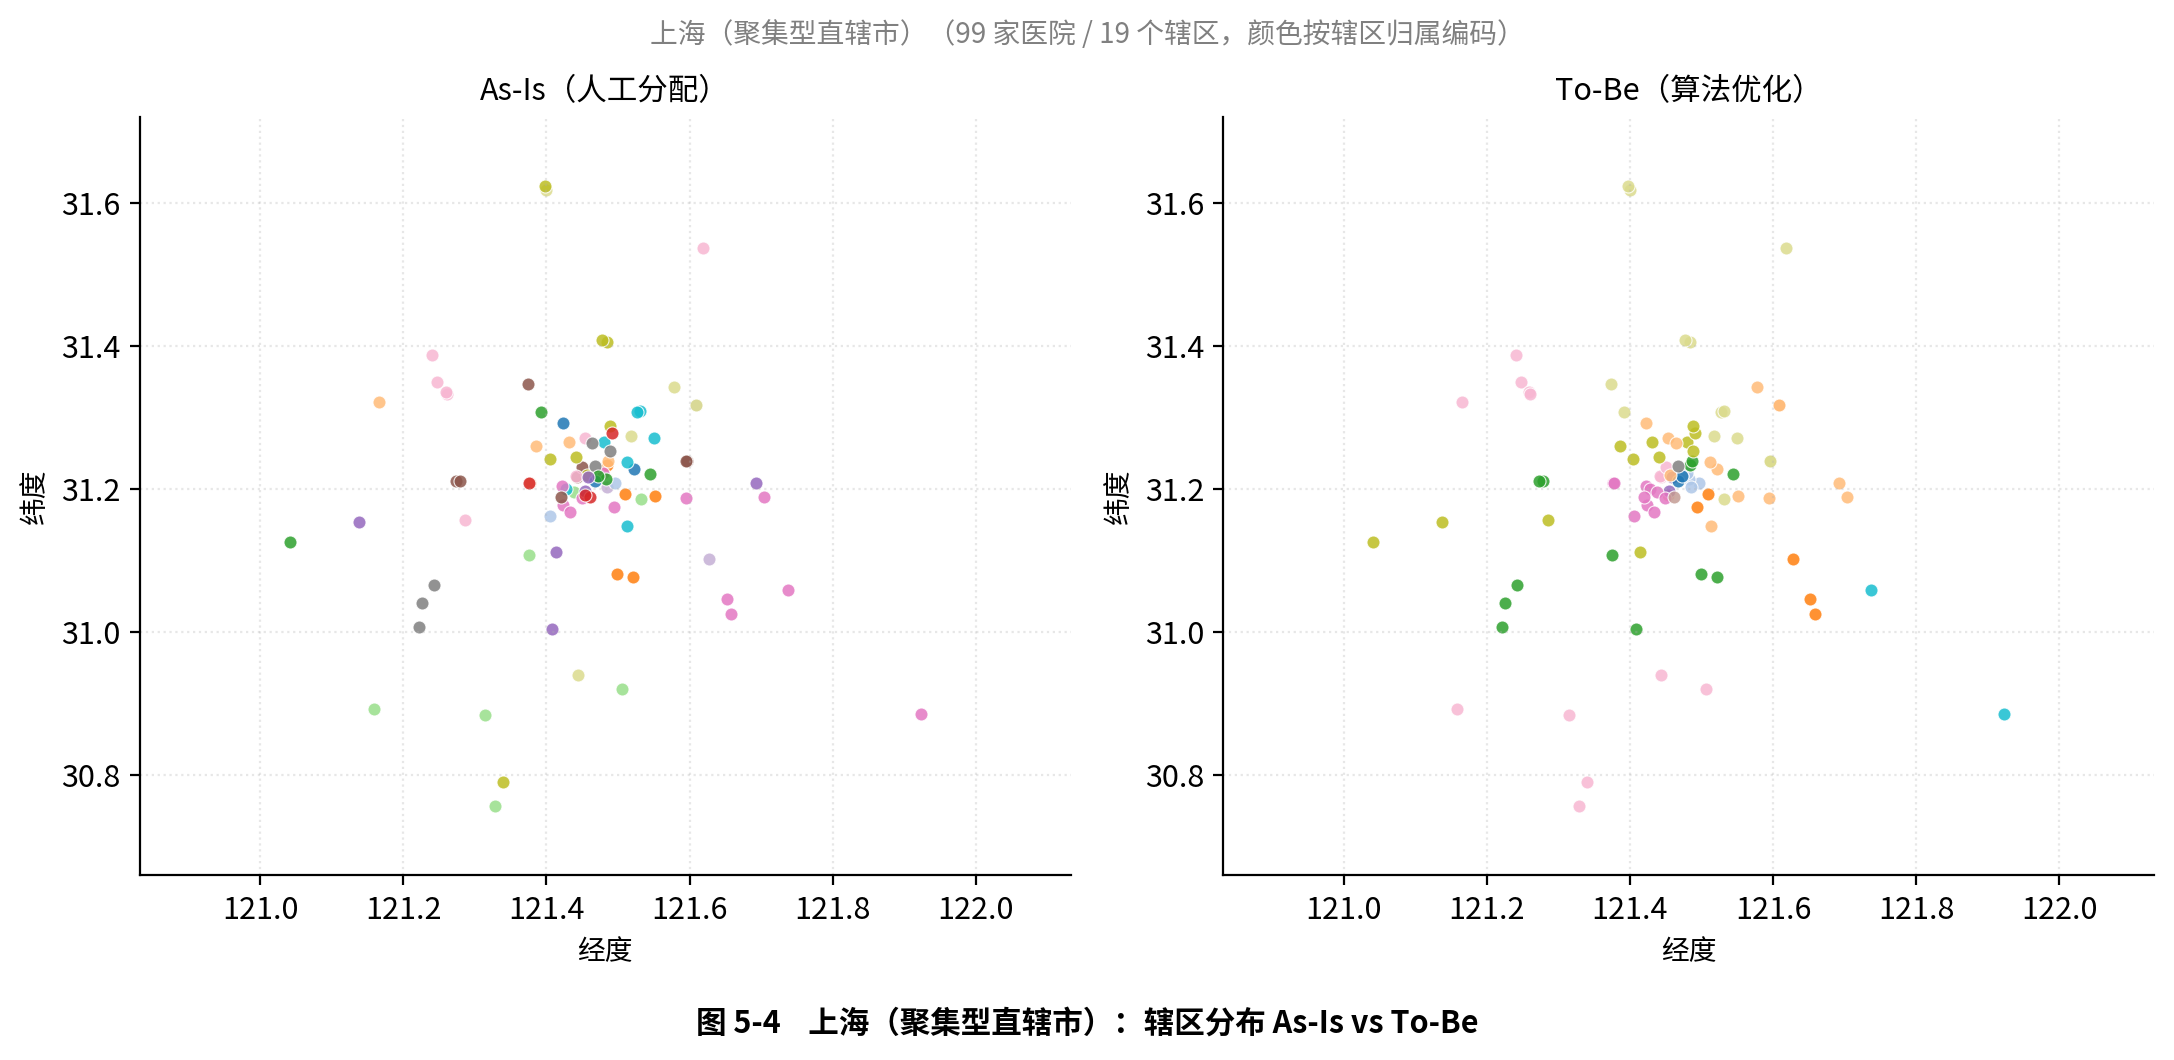
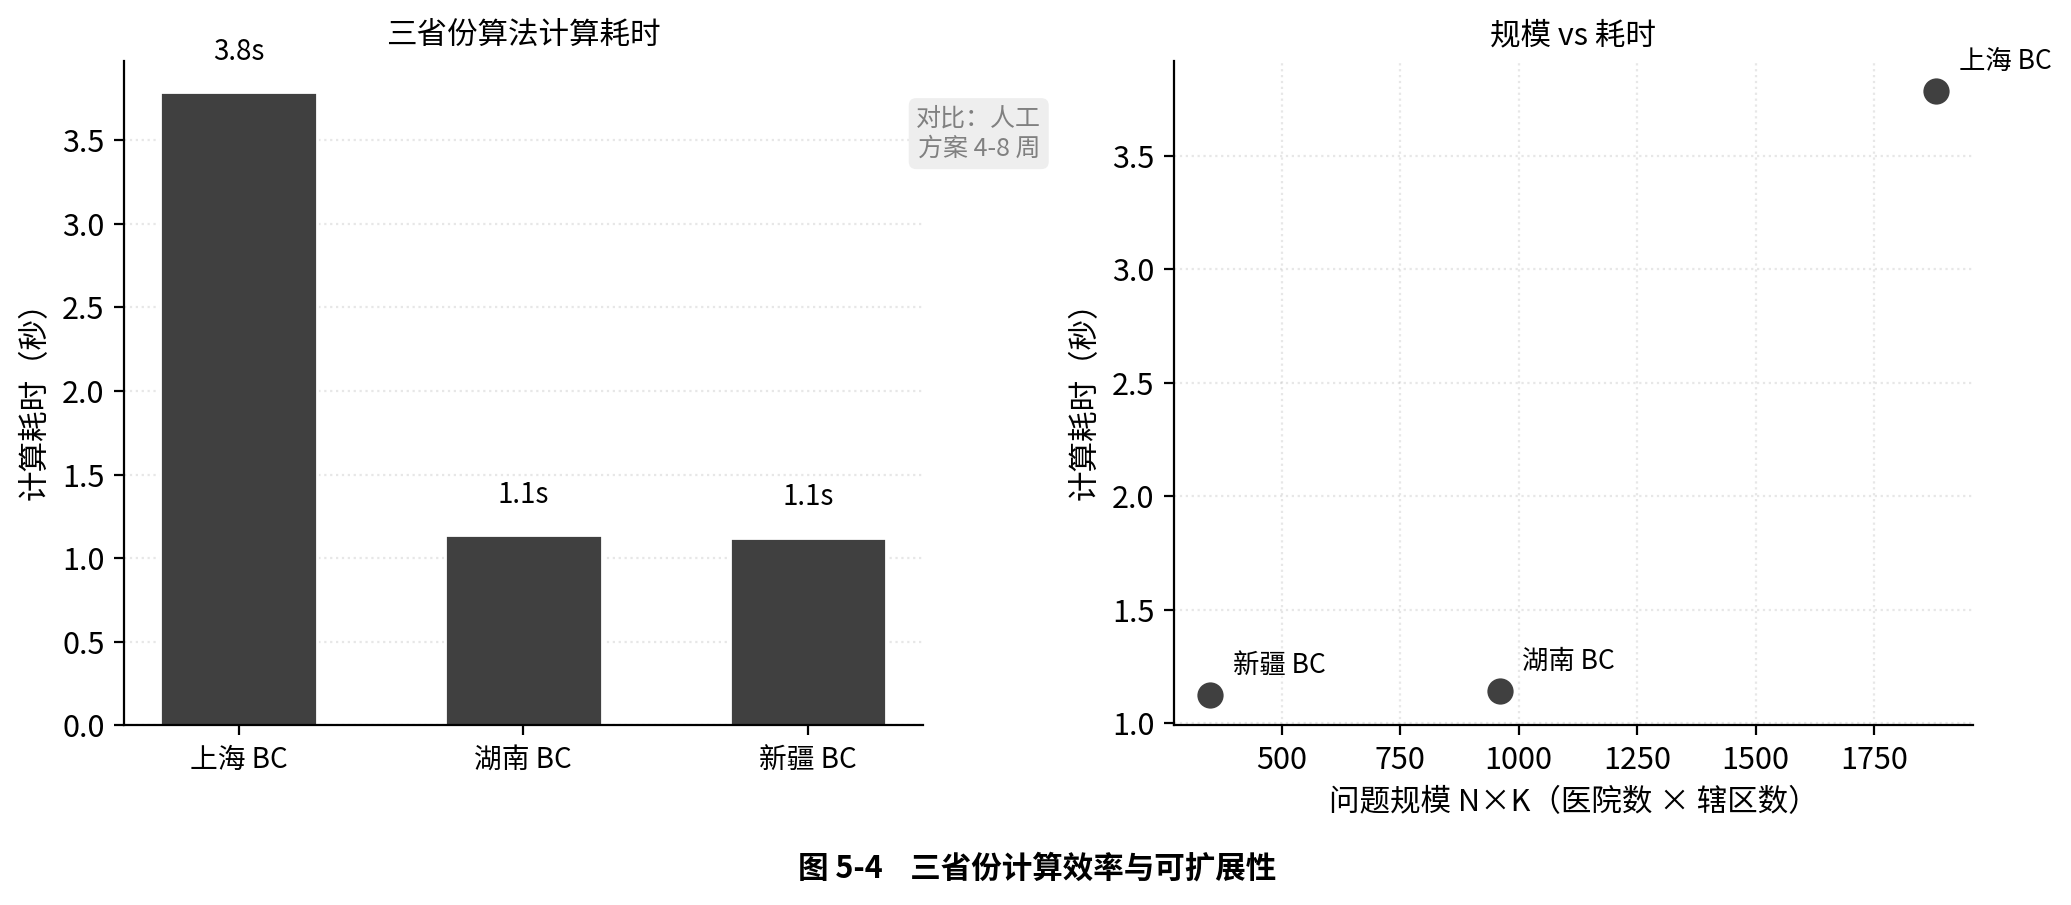
删除图 5-4/5-5 上海与新疆辖区分布地图，5.3 节改为纯文字+表格论证
原图 5-4（上海地图）/ 图 5-5（新疆地图）即便加上凸包包络也只能展示"轮廓压缩"这种很弱的几何信号，承担不起"展示算法地理优化"的论证任务。地理优化的核心证据已经由：
- 5.3.1/5.3.3 正文具体数字（半径 km、CV %）
- 表 5-3 三省份横向对比
- 图 5-1/5-2 湖南主样本均衡度与紧凑性
完整覆盖。删除装饰性图反而让正文论证更密。

具体改动：
- 5.3.1 删图引用句 + 删 fig5-4.png 嵌入 + 删图后段地图描述前半句
- 5.3.3 删图引用句 + 删 fig5-5.png 嵌入 + 删图后段地图描述前半句
- 5.4.1 原图 5-6 重编号为图 5-4（三省份计算时间）
- fig5.py 删 _province_map/fig_5_4/fig_5_5 三个 map 函数 + scipy 依赖
- fig_5_6 函数重命名 fig_5_4，输出文件 fig5-6.png → fig5-4.png

diff --git a/docs/figures/fig5.py b/docs/figures/fig5.py
@@ -1,6 +1,6 @@
 """
-第五章图表生成脚本（图 5-1 至 图 5-6）
-数据来源：data/case/output/{bc-上海, bc-湖北, lc-云南}/{result, metrics}.json
+第五章图表生成脚本（图 5-1 至 图 5-4）
+数据来源：data/case/output/{bc-上海, bc-湖南, bc-新疆维吾尔自治区}/{result, metrics}.json
 所有图统一字体 Noto Sans CJK SC + 物理宽度约 15 cm + DPI 自适应。
 """
 import json
@@ -259,76 +259,8 @@ def fig_5_3():
     print('Saved fig5-3.png')
 
 
-def _province_map(province_key, fig_num, title):
-    """通用：辖区地图（医院点位 + 颜色编码辖区归属）"""
-    result, as_is, metrics = load_data(province_key)
-
-    # 收集医院的位置 + As-Is/To-Be 辖区
-    hosp_meta = {}
-    for tr in result['territoryResults']:
-        for h in tr['hospitals']:
-            ic = h['inscode']
-            if ic not in hosp_meta:
-                hosp_meta[ic] = {'lat': h['latitude'], 'lon': h['longitude']}
-
-    asis_assign = {}
-    for ha in as_is['historical']:
-        if ha['inscode'] in hosp_meta:
-            # 单医院多个辖区时，取第一个
-            asis_assign.setdefault(ha['inscode'], ha['trtyCode'])
-
-    tobe_assign = {}
-    for tr in result['territoryResults']:
-        for h in tr['hospitals']:
-            tobe_assign.setdefault(h['inscode'], tr['trtyCode'])
-
-    fig, axes = plt.subplots(1, 2, figsize=(11, 5.5))
-
-    # 一致地给 trtyCode 染色（用 tab20 或循环色）
-    all_trty = sorted(set(asis_assign.values()) | set(tobe_assign.values()))
-    cmap = plt.cm.tab20
-    color_map = {t: cmap(i % 20) for i, t in enumerate(all_trty)}
-
-    for ax, assign, sub in zip(axes, [asis_assign, tobe_assign], ['As-Is（人工分配）', 'To-Be（算法优化）']):
-        for ic, t in assign.items():
-            if ic not in hosp_meta:
-                continue
-            m = hosp_meta[ic]
-            if not m['lat'] or not m['lon']:
-                continue
-            ax.scatter(m['lon'], m['lat'], s=22, color=color_map[t], edgecolor='white', linewidth=0.4, alpha=0.85)
-        ax.set_xlabel('经度', fontsize=10)
-        ax.set_ylabel('纬度', fontsize=10)
-        ax.set_title(sub, fontsize=11, pad=6)
-        ax.set_aspect('equal', adjustable='datalim')
-        ax.spines['top'].set_visible(False)
-        ax.spines['right'].set_visible(False)
-        ax.grid(True, linestyle=':', alpha=0.3)
-
-    # 添加规模注解
-    n_h = result['meta']['hospitalsCount']
-    n_t = result['meta']['territoriesCount']
-    fig.text(0.5, 0.92, f'{title}（{n_h} 家医院 / {n_t} 个辖区，颜色按辖区归属编码）',
-             ha='center', fontsize=10, color='gray')
-
-    fig.text(0.5, 0.02, f'图 5-{fig_num}    {title}：辖区分布 As-Is vs To-Be',
-             ha='center', fontsize=11, fontweight='bold')
-    plt.tight_layout(rect=[0, 0.05, 1, 0.92])
-    plt.savefig(f'{OUT}/fig5-{fig_num}.png', dpi=200, bbox_inches='tight', facecolor='white')
-    plt.close()
-    print(f'Saved fig5-{fig_num}.png')
-
-
 def fig_5_4():
-    _province_map('bc-上海', 4, '上海（聚集型直辖市）')
-
-
-def fig_5_5():
-    _province_map('bc-新疆维吾尔自治区', 5, '新疆（地理跨度极大的稀疏场景）')
-
-
-def fig_5_6():
-    """图 5-6 三省份计算时间与规模"""
+    """图 5-4 三省份计算时间与规模"""
     rows = []
     for tag, label in [('bc-上海', '上海 BC'), ('bc-湖南', '湖南 BC'), ('bc-新疆维吾尔自治区', '新疆 BC')]:
         with open(f'{DATA}/{tag}/result.json') as f:
@@ -377,11 +309,11 @@ def fig_5_6():
     ax.grid(True, linestyle=':', alpha=0.3)
     ax.set_axisbelow(True)
 
-    fig.text(0.5, 0.01, '图 5-6    三省份计算效率与可扩展性', ha='center', fontsize=11, fontweight='bold')
+    fig.text(0.5, 0.01, '图 5-4    三省份计算效率与可扩展性', ha='center', fontsize=11, fontweight='bold')
     plt.tight_layout(rect=[0, 0.04, 1, 1])
-    plt.savefig(f'{OUT}/fig5-6.png', dpi=200, bbox_inches='tight', facecolor='white')
+    plt.savefig(f'{OUT}/fig5-4.png', dpi=200, bbox_inches='tight', facecolor='white')
     plt.close()
-    print('Saved fig5-6.png')
+    print('Saved fig5-4.png')
 
 
 if __name__ == '__main__':
@@ -389,6 +321,4 @@ if __name__ == '__main__':
     fig_5_2()
     fig_5_3()
     fig_5_4()
-    fig_5_5()
-    fig_5_6()
-    print('\nAll 6 figures generated.')
+    print('\nAll 4 figures generated.')